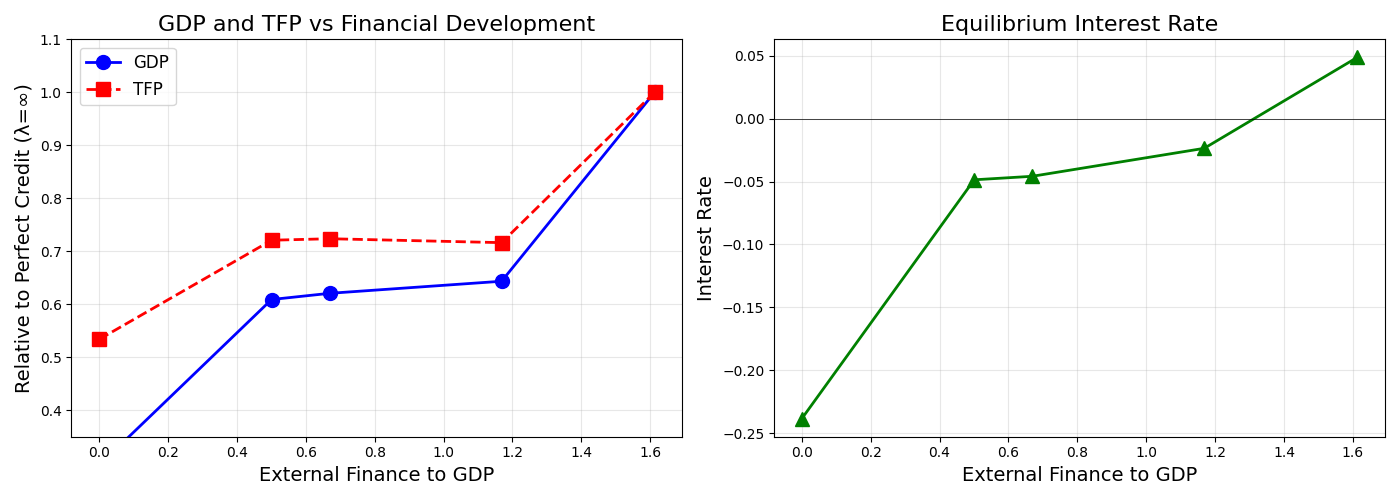
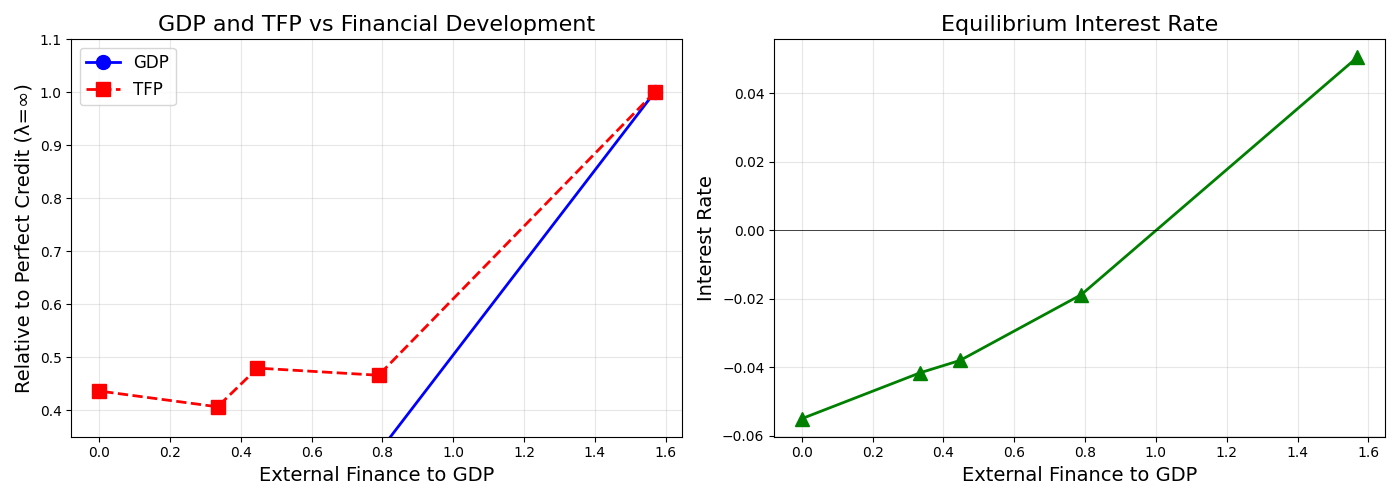
fianl version cheb

diff --git a/BueraShin_JPE2013/main_cheb.py b/BueraShin_JPE2013/main_cheb.py
@@ -43,7 +43,7 @@ A_SHIFT = 1.0
 # Paper's discretization (v3 bounds): M=0.633 (e ~ 1.2675) and 0.9995 (e ~ 6.2164)
 # Z_MIN, Z_MAX = (1 - 0.633)**(-1/4.15), (1 - 0.9995)**(-1/4.15)
 Z_MIN, Z_MAX = (1 - 0.001)**(-1/4.15), (1 - 0.9995)**(-1/4.15)
-N_CHEBY_A = 30
+N_CHEBY_A = 20
 N_CHEBY_Z = 20  
 
 # Simulation Parameters
@@ -331,8 +331,8 @@ def find_equilibrium(params, method='analytical', fixed_shocks=None, w_init=1.5,
             w *= 0.98; print(f"  [{it+1}] !!! COLLAPSE - w reset"); continue
         ws = 1.0 - share_en
         eL, eK = (L_d - ws)/max(ws, 0.05), (K_agg - A_agg)/max(A_agg, 1.0)
-        print(f"  [{it+1}] w={w:.8f}, r={r:.8f} | K={K_agg:.8f}, A={A_agg:.8f} | Ld={L_d:.8f}, Ls={ws:.8f}")
-        if abs(eL) + abs(eK) < 2e-4: break
+        print(f"  [{it+1}] w={w:.4f}, r={r:.4f} | K={K_agg:.4f}, A={A_agg:.4f} | Ld={L_d:.4f}, Ls={ws:.4f}")
+        if abs(eL) + abs(eK) < 2e-3: break
         if it > 0:
             if eL * exc_L_p < 0: w_step *= 0.5
             else: w_step = min(w_step * 1.05, 0.2)
